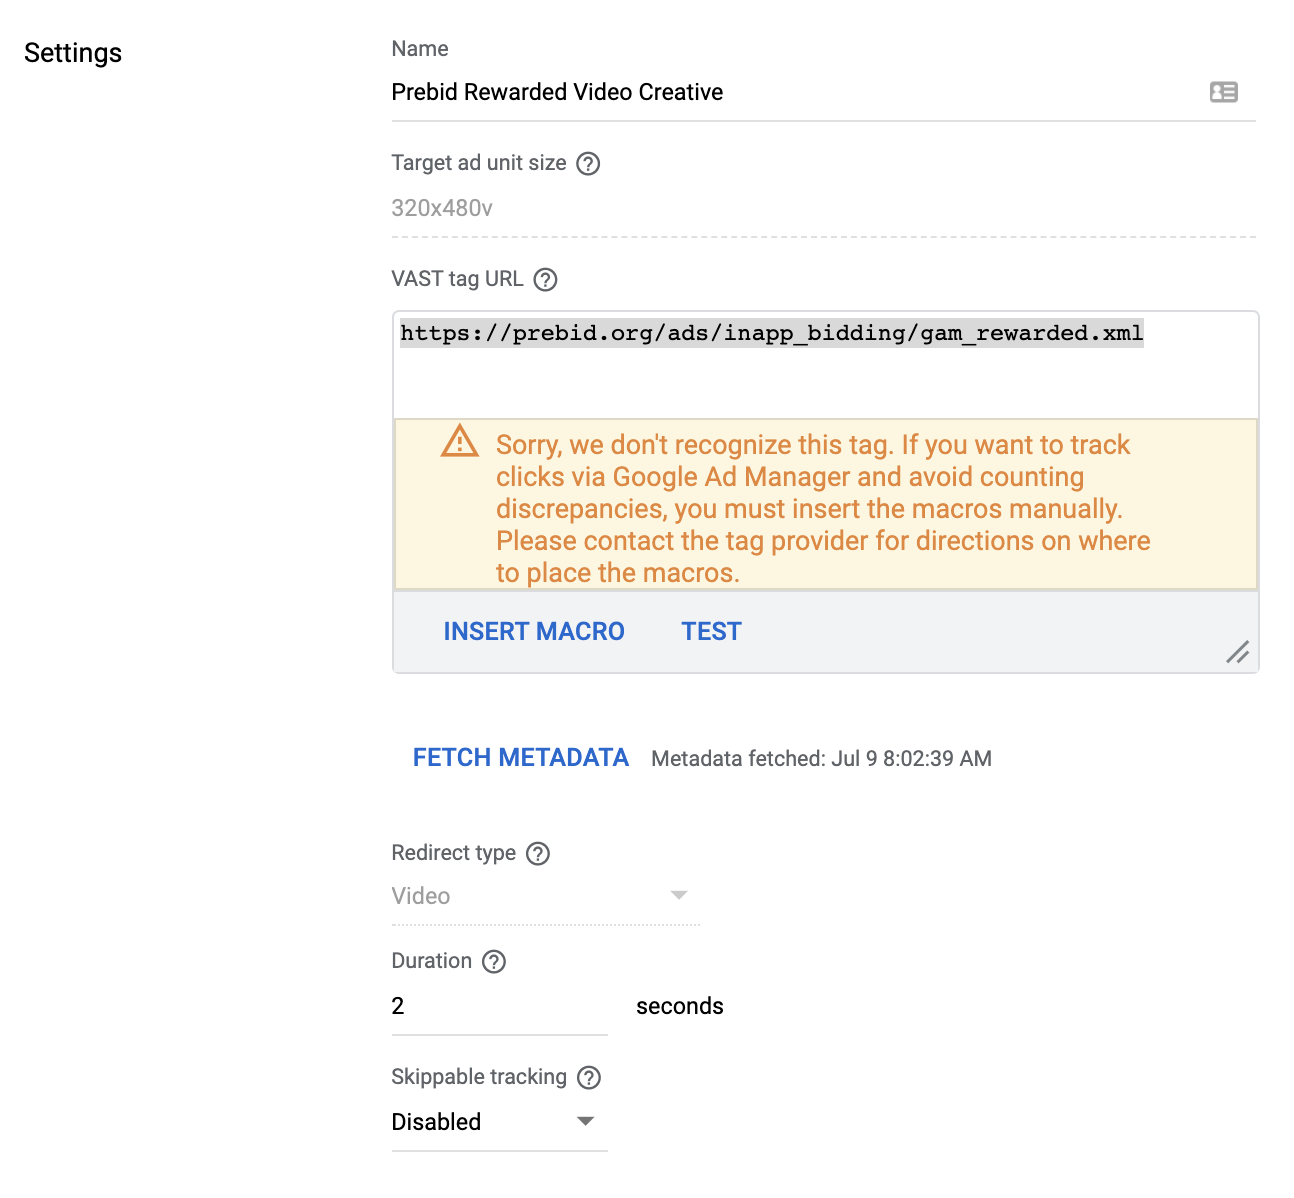
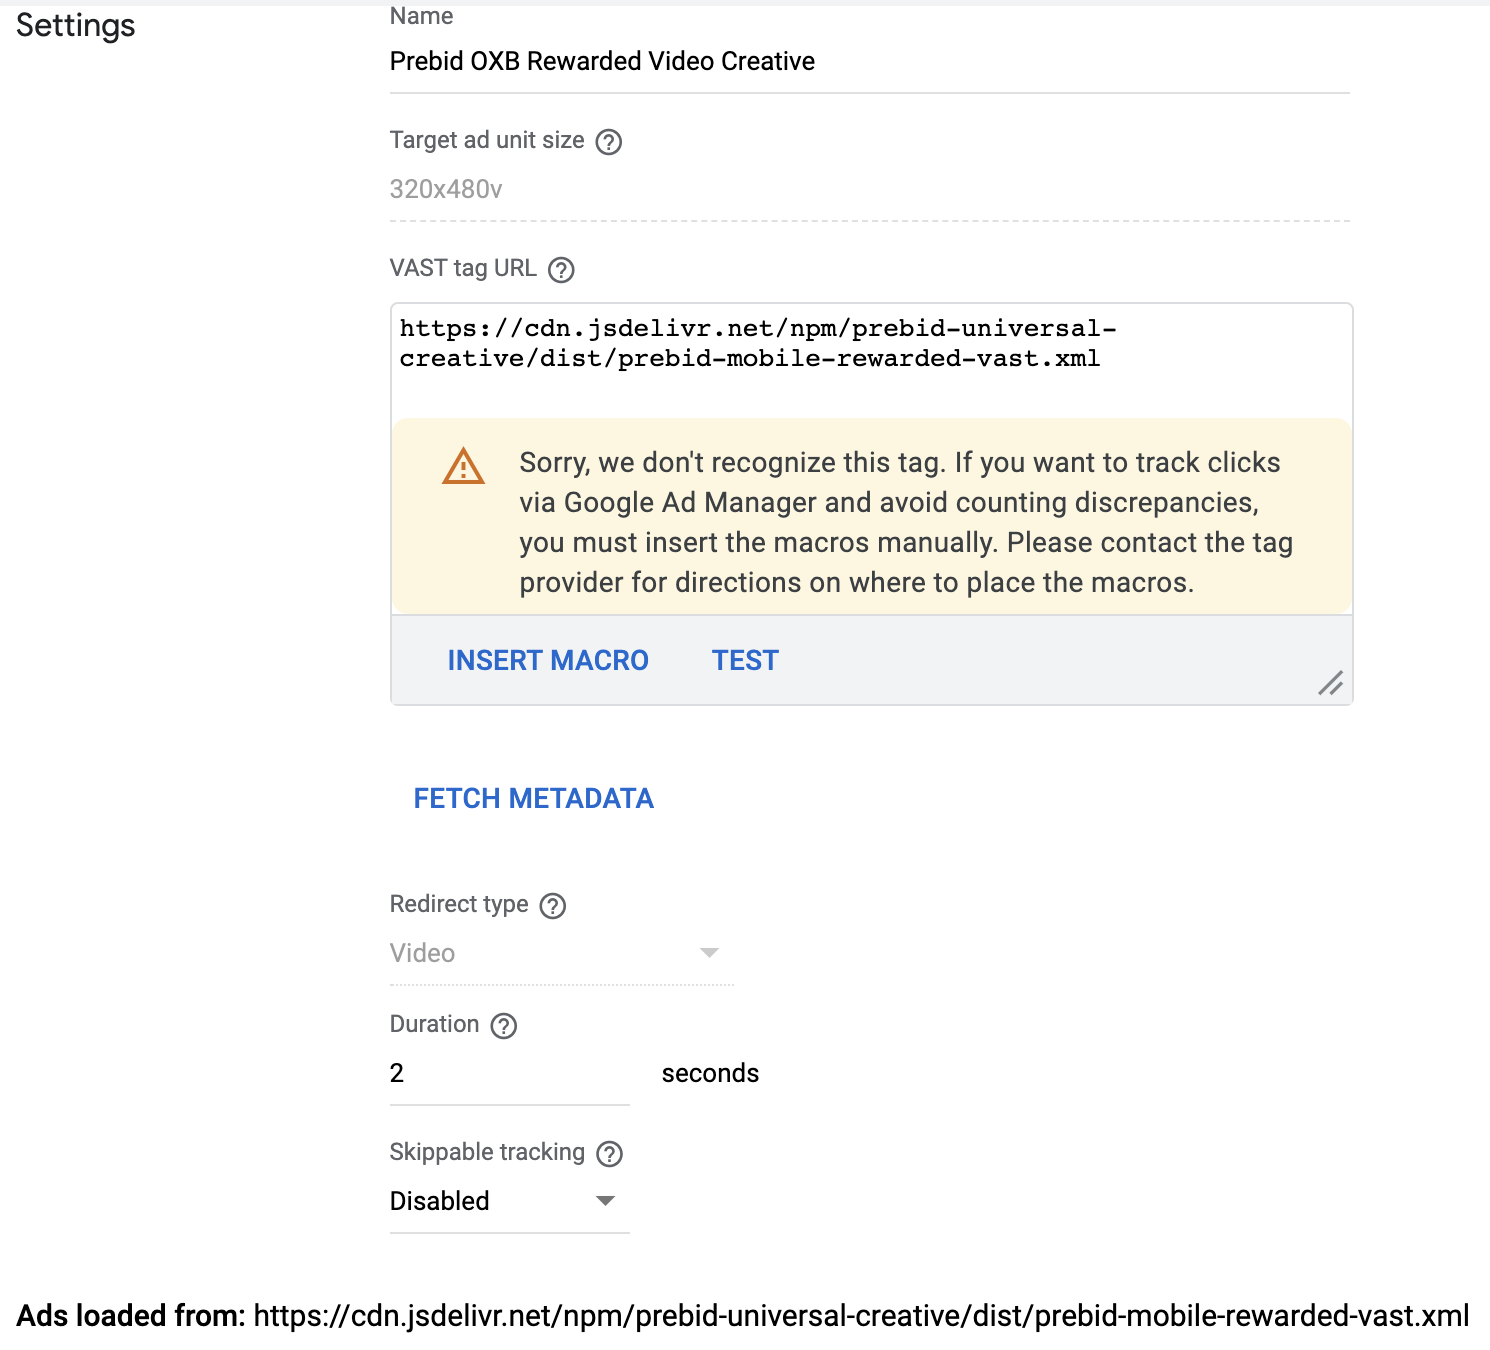
use prebid hosted vast tag

diff --git a/prebid-mobile/modules/rendering/rendering-gam-line-item-setup.md b/prebid-mobile/modules/rendering/rendering-gam-line-item-setup.md
@@ -64,7 +64,7 @@ If GAM Event Handler receives the `PrebidAppEvent` event it will render the winn
 Prebid rendering for Rewarded video ads is based on the [OnAdMetadataChangedListener](https://developers.google.com/android/reference/com/google/android/gms/ads/rewarded/OnAdMetadataChangedListener). So you need to set up a special VAST tag in the creative.
 
 ``` js
-https://sdk.prod.gcp.openx.org/ads/inapp_bidding/gam_rewarded.xml
+https://cdn.jsdelivr.net/npm/prebid-universal-creative/dist/prebid-mobile-rewarded-vast.xml
 ```
 
 <img src="/assets/images/prebid-mobile/modules/rendering/order-gam-creative-rewarded.png" alt="Pipeline Screenshot" align="center">
